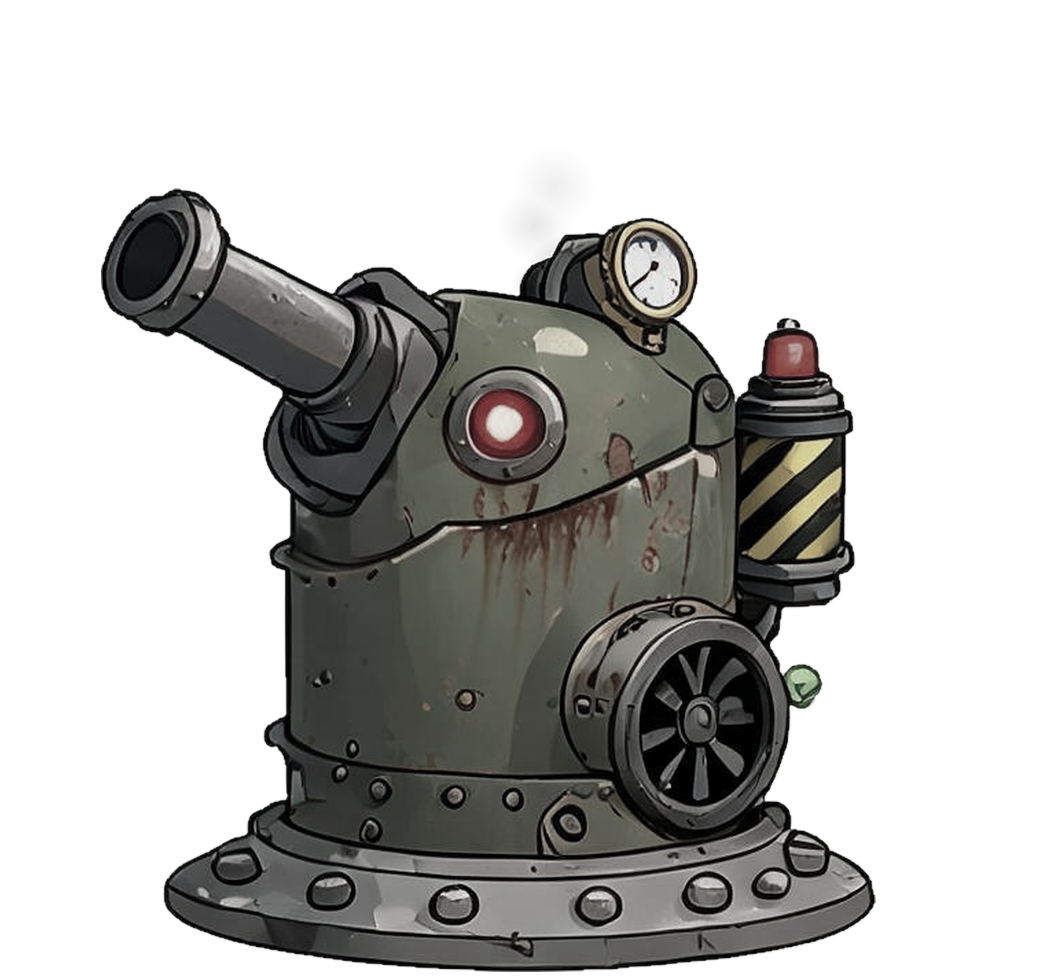
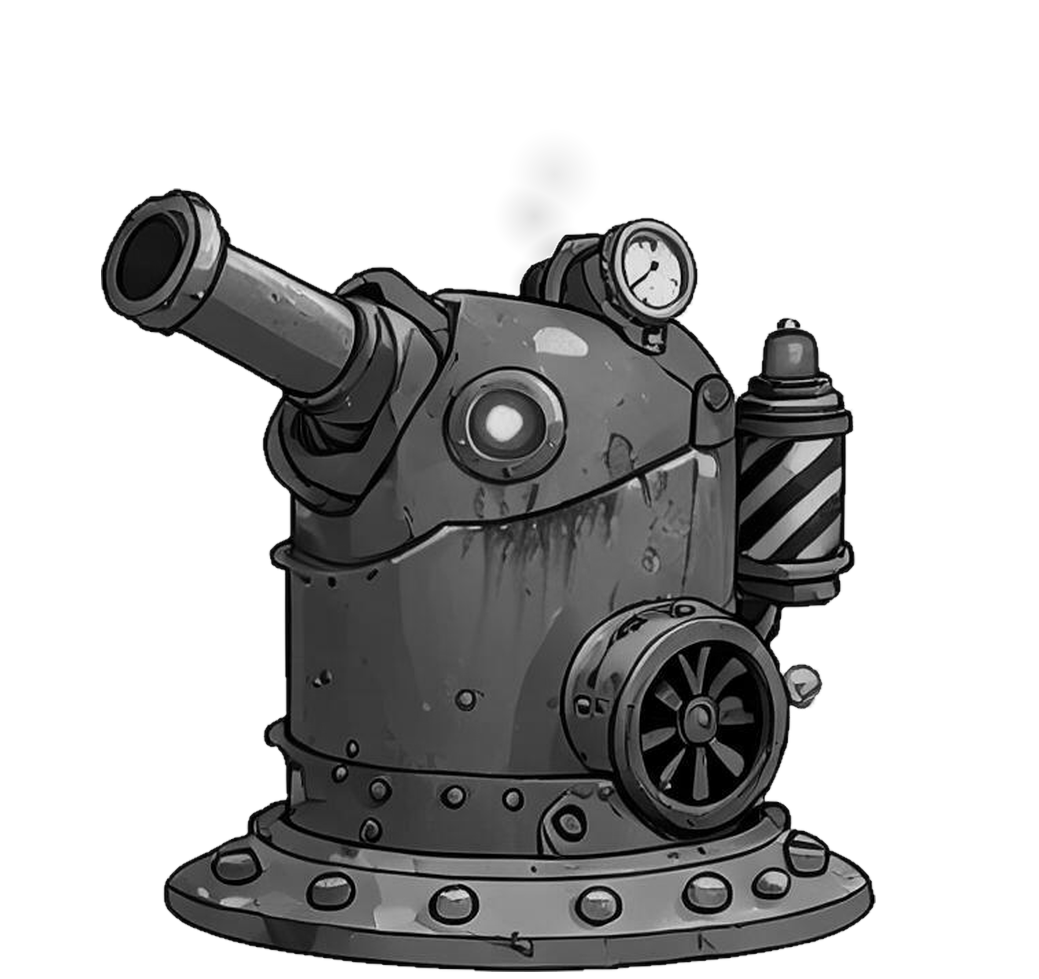
fix(美术): Tower01 死亡图集改为 5 帧，与 Disable 动画的 5 个关键帧对齐

Changed region(s): [[0.7084, 0.429, 0.8008, 0.5822], [0.4312, 0.3984, 0.5236, 0.4903], [0.7392, 0.3371, 0.8008, 0.3984]]

diff --git a/Tools/art-pipeline/make_tower_sets_from_fire.py b/Tools/art-pipeline/make_tower_sets_from_fire.py
@@ -8,12 +8,12 @@
 三套的效果（除 Disable 的「变灰」按语义作用于塔体颜色外，其余一律只写在背景区）：
   Idle   : 塔体不动；罐顶红色警戒灯辉光脉动 + 风扇轮外侧风影弧（对应 警戒灯/风扇）
   Aim    : 塔体不动；炮口绿气蓄能，由弱到强（攻击前摇，末帧锁定最强）
-  Disable: 塔体几何不动；逐帧去饱和变灰（被净化停机），顶部冒烟，末帧全灰
+  Disable: 塔体几何不动；逐帧去饱和变灰（被净化停机），顶部冒烟，末帧全灰（5 帧，末帧即终态）
 
 硬约束（脚本保证）：
   - 画格与 Fire 同为 1039x979，塔体在格内的像素坐标与 Fire_00 完全相同 -> 四套零位移；
   - 底图 alpha<=8 的背景区才叠加；塔体（alpha>8）像素除 Disable 的变灰外逐点不变；
-  - 输出沿用 Frames/<name>/<name>_NN.png 原名与原帧数（Idle 4 / Aim 4 / Disable 6），
+  - 输出沿用 Frames/<name>/<name>_NN.png 原名与原帧数（Idle 4 / Aim 4 / Disable 5），
     .meta/guid 不变 -> 三个 .anim 引用不失效。
 
 用法：python make_tower_sets_from_fire.py
@@ -210,8 +210,10 @@ def main():
     ys, xs = np.where(base[..., 3] > ALPHA_MIN)
     sx = float((xs.min() + xs.max()) / 2 + 52)      # 顶部偏右：从塔身最高处升起
     sy = float(ys.min() + 112)
-    plan = [(0.00, 1.00, 0.00), (0.08, 1.00, 0.25), (0.22, 0.99, 0.50),
-            (0.45, 0.97, 0.70), (0.70, 0.95, 0.85), (1.00, 0.92, 1.00)]
+    # 5 帧：Disable.anim 只有 5 个键（00..04，末键 t=1/3 s），故素材也做 5 帧，
+    # 让末帧就是「全灰停机」终态，避免第 6 帧永远播不到。
+    plan = [(0.00, 1.00, 0.00), (0.10, 1.00, 0.22), (0.32, 0.99, 0.50),
+            (0.65, 0.97, 0.78), (1.00, 0.92, 1.00)]
     dis = [Image.fromarray(disable_frame(base, t, dim, smoke_plume(sx, sy, st)), 'RGBA')
            for (t, dim, st) in plan]
     write_set('Tower01_Disable', dis, 3)

diff --git a/Assets/Art/README_素材说明.md b/Assets/Art/README_素材说明.md
@@ -88,16 +88,16 @@ ArtAssets\
 | Enemy03_Hurt | 2 | 2×1 | 20 | 否 | 帧1 |
 | Enemy03_Die | 10 | 5×2 | 15 | 否 | 帧10 DieEnd（坍塌冒烟） |
 
-### Tower01 毒气防御塔（关卡3·固定）Cell 1039×979 / 20 帧　localScale ≈ 0.77（约1.8单位）
+### Tower01 毒气防御塔（关卡3·固定）Cell 1039×979 / 19 帧　localScale ≈ 0.77（约1.8单位）
 | Clip | 帧 | 网格 | Samples | 循环 | 事件 |
 |---|---|---|---|---|---|
 | Tower01_Idle | 4 | 2×2 | 12 | 是 | 警戒灯/风扇 |
 | Tower01_Aim | 4 | 2×2 | 12 | 否 | 帧4 锁定音（攻击前摇） |
 | Tower01_Fire | 6 | 3×2 | 12 | 否 | 帧3 HitOn（喷毒）/ 帧5 HitOff |
-| Tower01_Disable | 6 | 3×2 | 12 | 否 | 帧6 停机（被净化变灰） |
+| Tower01_Disable | 5 | 3×2 | 12 | 否 | 帧5 停机（被净化变灰） |
 
 > Tower01 四套**统一 1039×979**（画格与 Fire 同规格，塔体在格内的像素坐标四套完全一致，切换 Clip 时零位移，故不再按底座锚点自适应宽度）；高度 979、底留白不变。
-> 定妆图 = `Tower01_Fire_00`（射击第一帧）。Tower01_Idle / Aim / Disable **不走生成式管线**：塔体逐像素取自 Fire_00，仅在背景区叠加效果 —— Idle：罐顶警戒灯辉光脉动 + 风扇轮缘风影弧；Aim：炮口蓄能绿气由弱到强；Disable：逐帧去饱和变灰 + 顶部升烟。派生脚本见 `Tools/art-pipeline/make_tower_sets_from_fire.py`（三套的第 1 帧均与 Fire_00 逐像素相同）。
+> 定妆图 = `Tower01_Fire_00`（射击第一帧）。Tower01_Idle / Aim / Disable **不走生成式管线**：塔体逐像素取自 Fire_00，仅在背景区叠加效果 —— Idle：罐顶警戒灯辉光脉动 + 风扇轮缘风影弧；Aim：炮口蓄能绿气由弱到强；Disable：逐帧去饱和变灰 + 顶部升烟。派生脚本见 `Tools/art-pipeline/make_tower_sets_from_fire.py`（三套的第 1 帧均与 Fire_00 逐像素相同）。Disable 做 **5 帧**是刻意与 `Disable.anim` 的 5 个键（00..04、末键 t=1/3 s）对齐，使**末帧即「全灰停机」终态**而不是永不播放的第 6 帧。
 > 四套 Clip 同一座塔：粗短炮管一律朝左上 + 圆顶橄榄绿锈蚀塔身 + 塔身左侧大红圆灯 + 顶部金框白色压力表 + 右侧红顶黄黑斜条纹罐 + 右下黑色辐条风扇轮 + 喇叭形铆钉底座。
 
 ### Boss01 工厂污染核心（关卡3 最终 BOSS）Cell 831×798 / 77 帧　localScale ≈ 2.25（约4.5单位）
